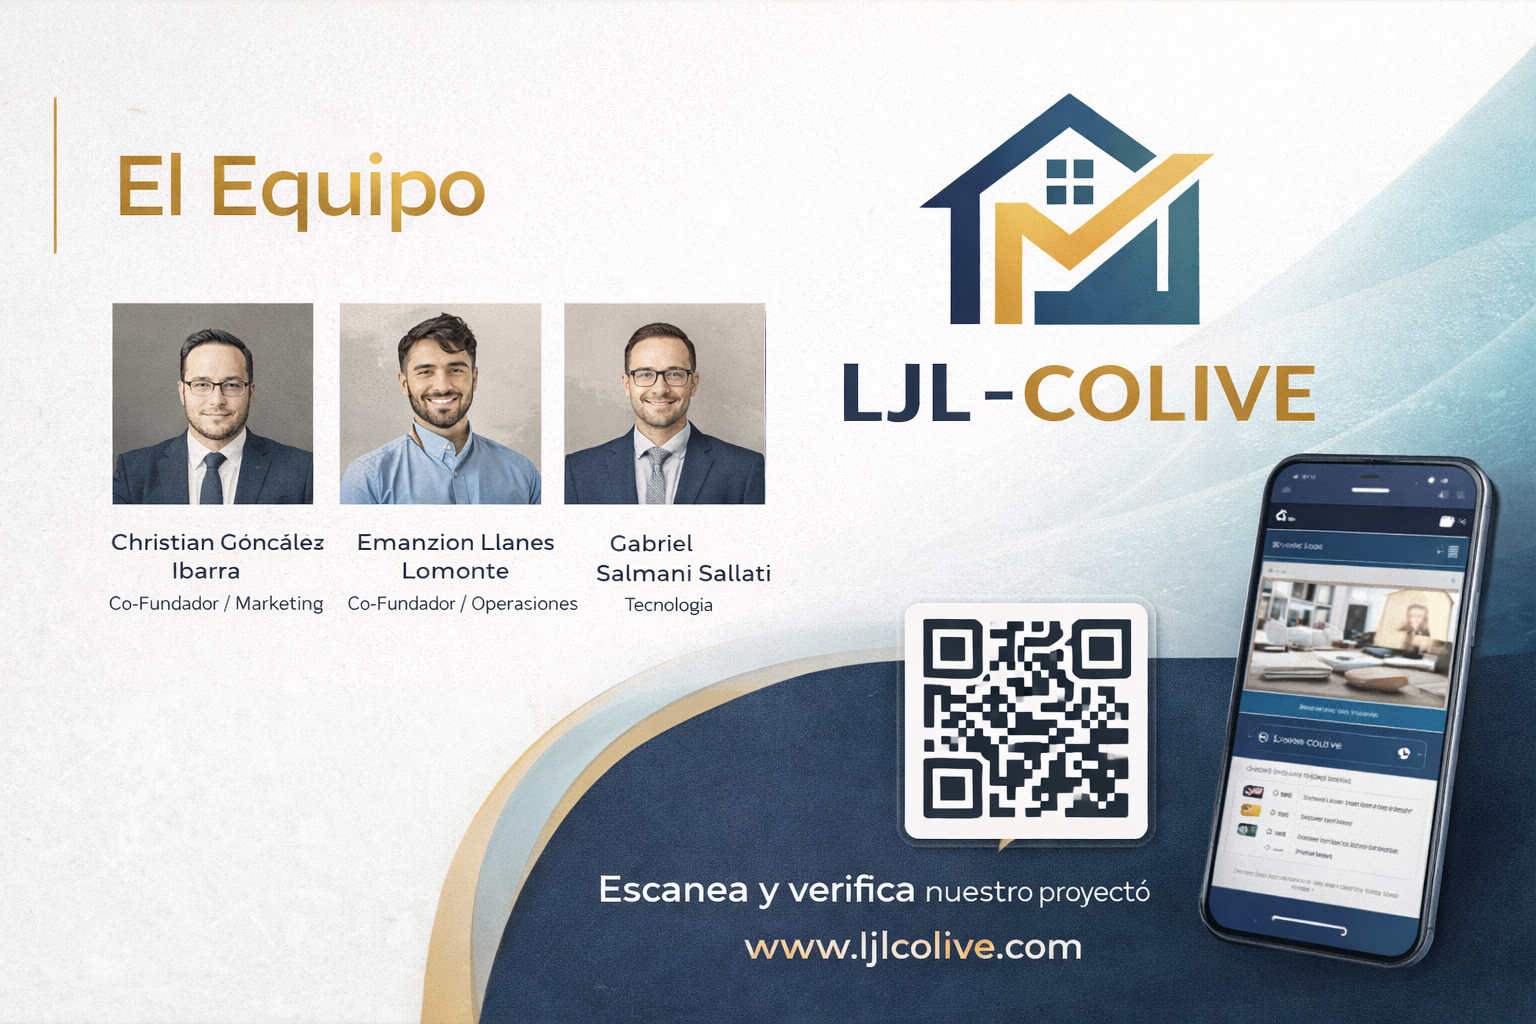
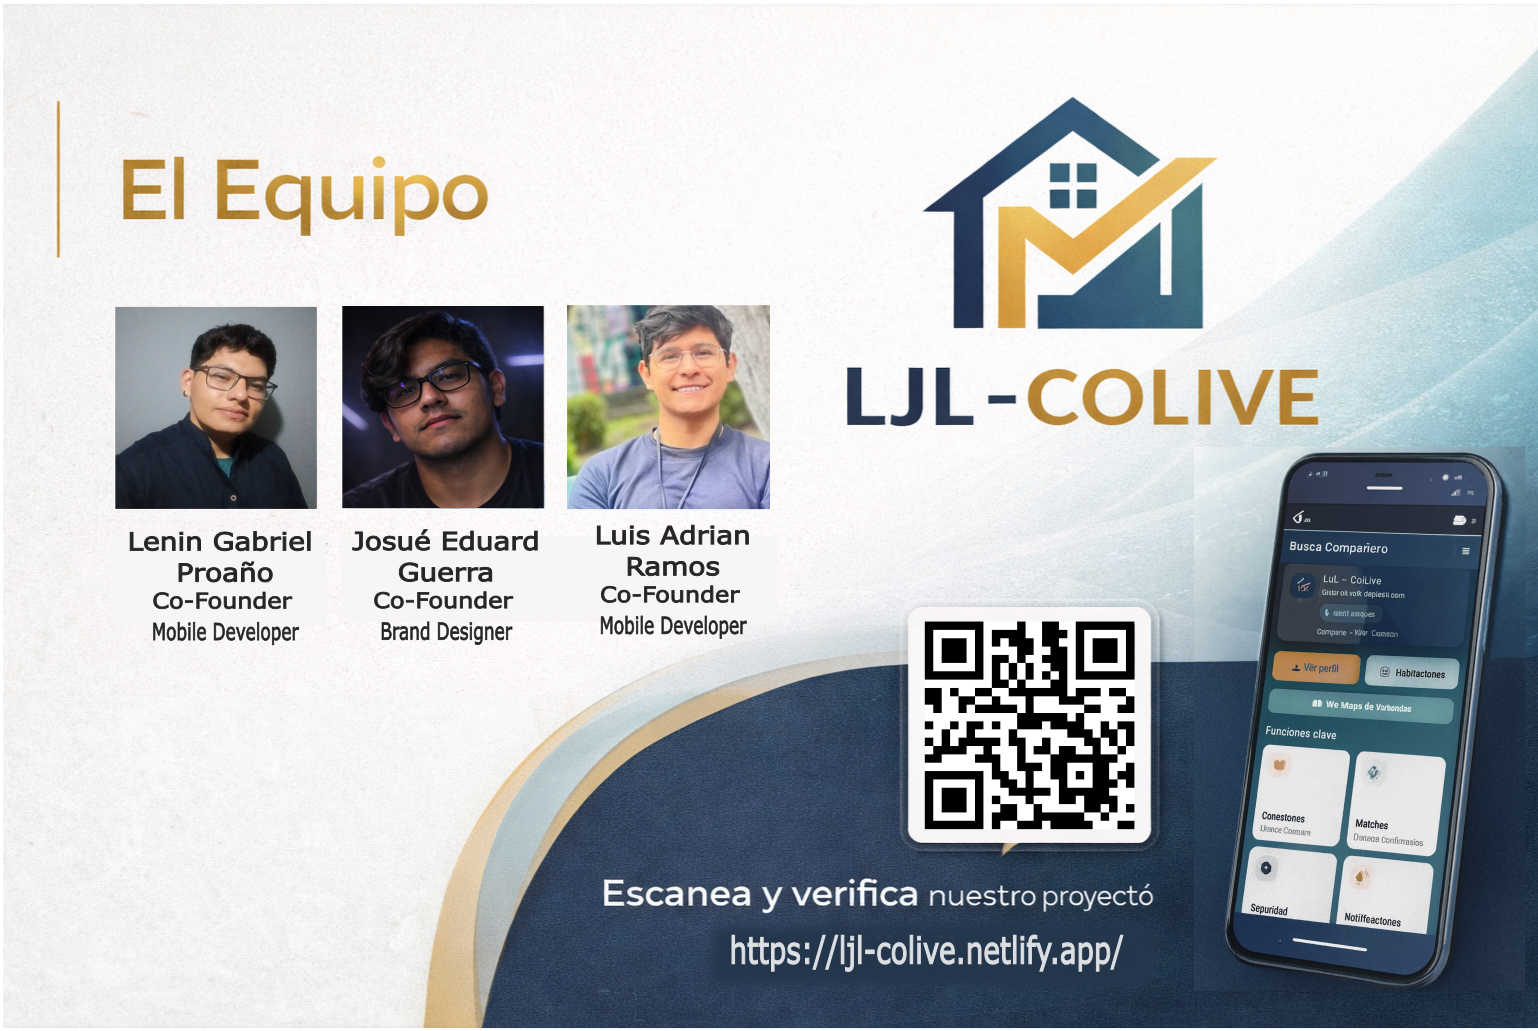
Cambios pagina final

diff --git a/app/_components/HomeAnimated.tsx b/app/_components/HomeAnimated.tsx
@@ -69,6 +69,9 @@ export default function HomeAnimated() {
             <a href="#faq" className="text-sm font-semibold text-white/80 hover:text-white">
               FAQ
             </a>
+              <a href="#equipo" className="text-sm font-semibold text-white/80 hover:text-white">
+              Equipo Fundador
+            </a>
           </nav>
 
           {/* CTA derecha */}
@@ -98,7 +101,7 @@ export default function HomeAnimated() {
             <MobileLink href="#metricas" label="Métricas" />
             <MobileLink href="#como-funciona" label="Cómo funciona" />
             <MobileLink href="#faq" label="FAQ" />
-            <MobileLink href="#descargar" label="Descargar" />
+            <MobileLink href="#equipo" label="Equipo Fundador" />
           </div>
         </div>
       </header>
@@ -326,34 +329,35 @@ export default function HomeAnimated() {
         </div>
       </section>
 
-      {/* ===== DESCARGAR (anchor) ===== */}
-      <section id="descargar" className="bg-[var(--ljl-dark)] text-white">
-        <div className="mx-auto max-w-6xl px-6 py-14">
-          <Reveal>
-            <div className="rounded-3xl bg-white/8 p-8 ring-1 ring-white/12">
-              <h2 className="font-[var(--font-display)] text-3xl font-semibold">
-                Listos para vivir mejor, con confianza.
-              </h2>
-              <p className="mt-3 max-w-2xl text-white/80">
-                Descarga la app y conoce una experiencia donde el usuario es prioridad.
-              </p>
-
-              <div className="mt-6 flex flex-col gap-3 sm:flex-row">
-                <motion.a whileHover={{ scale: 1.02 }} whileTap={{ scale: 0.98 }} href={DOWNLOAD_URL}
-                  className="rounded-xl bg-[var(--ljl-gold)] px-6 py-3 text-center text-sm font-semibold text-[var(--ljl-dark)] hover:brightness-110"
-                >
-                  Descargar la app
-                </motion.a>
-                <motion.a whileHover={{ scale: 1.02 }} whileTap={{ scale: 0.98 }} href={PUBLISHED_URL}
-                  className="rounded-xl bg-white/10 px-6 py-3 text-center text-sm font-semibold ring-1 ring-white/20 hover:bg-white/15"
-                >
-                  Ver app publicada
-                </motion.a>
-              </div>
+      {/* ===== EQUIPO ===== */}
+      <section id="equipo" className="relative">
+        <h2 className="font-[var(--font-display)] text-3xl font-semibold text-[var(--ljl-dark)] mb-8 text-center">
+          Nuestro Equipo
+        </h2>
+        <motion.div initial="hidden" animate="visible" variants={scaleIn} className="relative max-w-xl mx-auto">
+          <div className="rounded-3xl bg-white/6 p-5 ring-1 ring-white/10">
+            <div className="rounded-2xl bg-gradient-to-br from-white/10 to-white/5 p-4">
+              <motion.div animate={{ y: [0, -6, 0] }} transition={{ duration: 6.2, repeat: Infinity, ease: "easeInOut" }} >
+                <Image src="/brand/equipo.png" alt="Equipo LJL – CoLive" width={1600} height={1000} className="h-auto w-full rounded-xl object-cover" priority />
+              </motion.div>
             </div>
-          </Reveal>
+          </div>
+        </motion.div>
+
+        {/* Botón de enlace al video */}
+        <div className="mt-6 text-center">
+          <a
+            href="https://youtu.be/Ikdp-MjyfaI"
+            target="_blank"
+            rel="noopener noreferrer"
+            className="inline-block rounded-xl bg-[var(--ljl-gold)] px-6 py-3 text-sm font-semibold text-[var(--ljl-dark)] shadow-lg shadow-black/20 hover:brightness-110"
+          >
+            Ver Video de la App
+          </a>
         </div>
       </section>
+
+
 
       {/* Footer */}
       <footer className="border-t border-black/5 bg-white">
